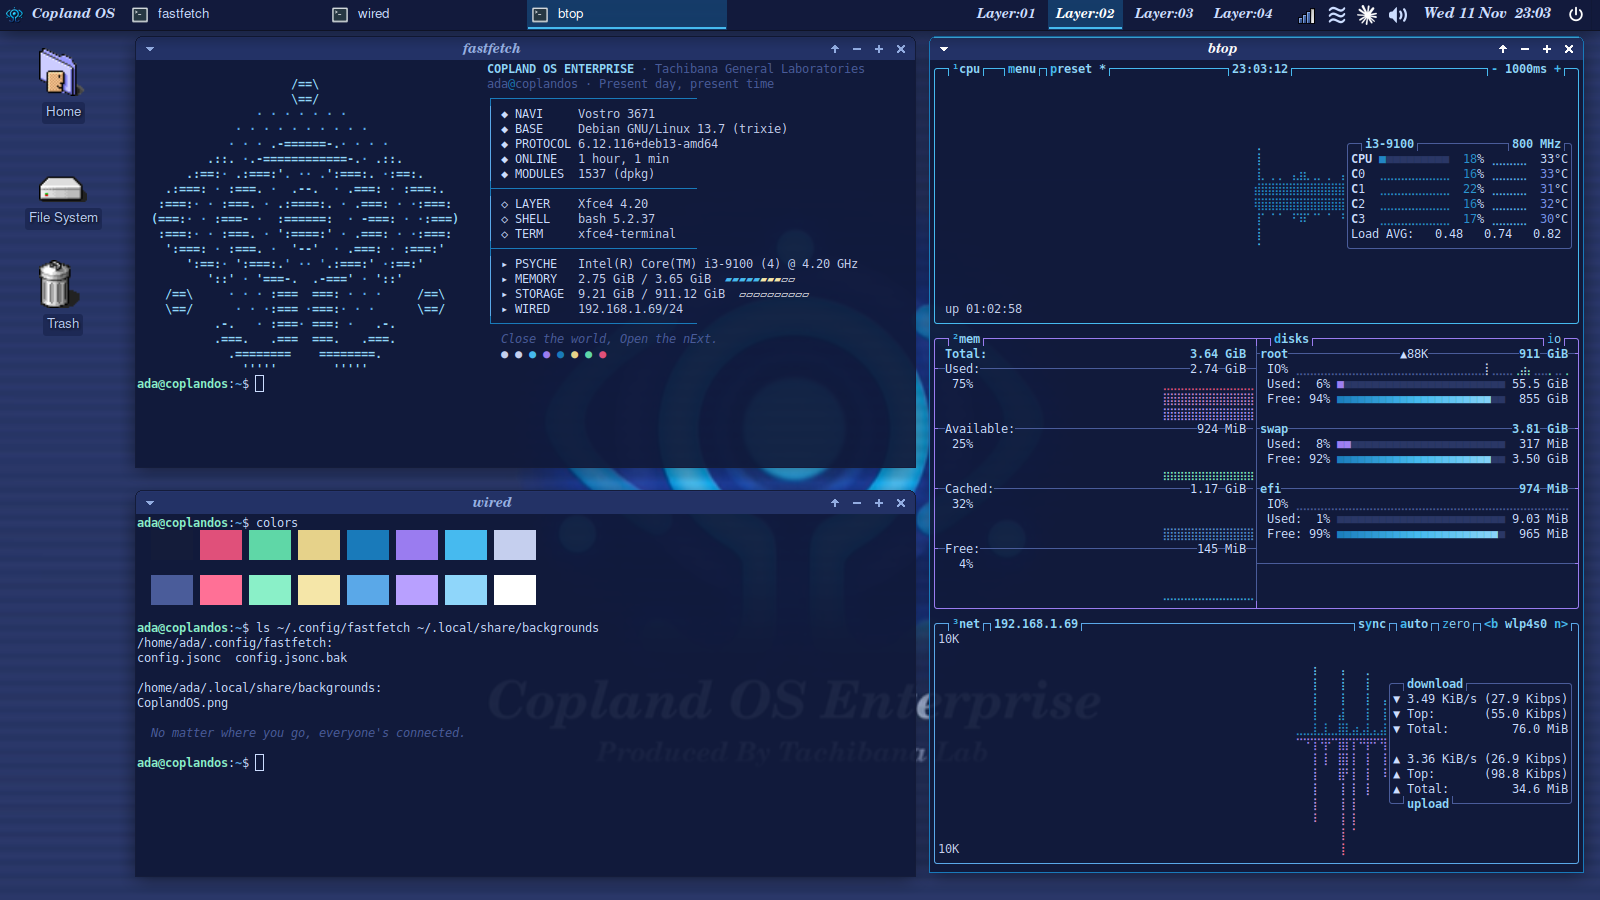
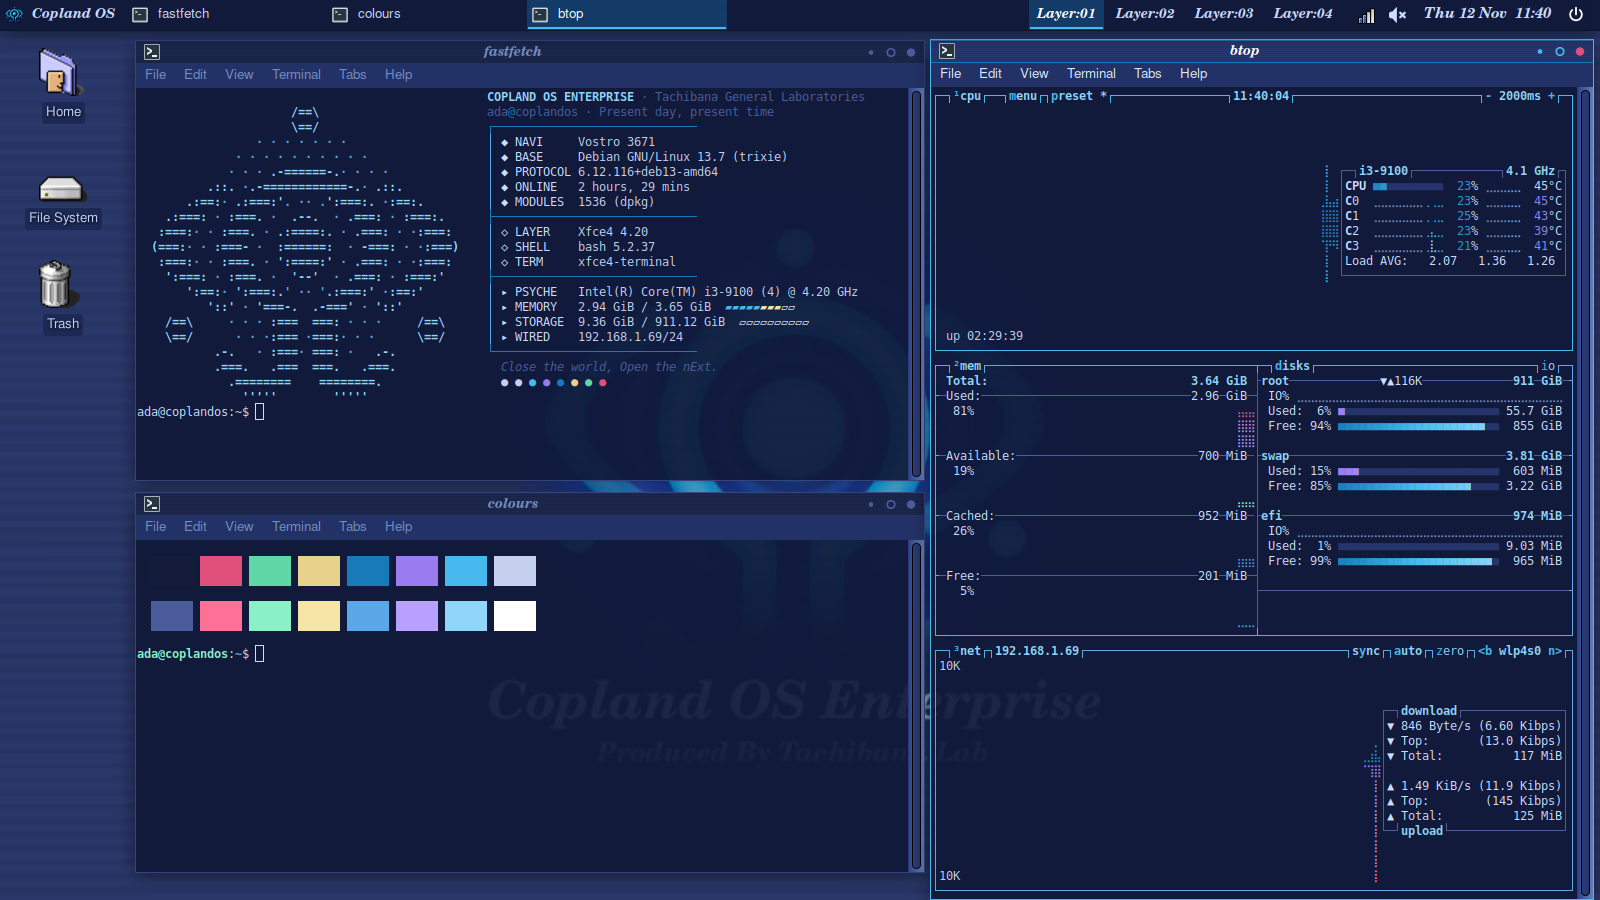
New screenshots with the new window frame
- docs/screenshot-desktop.png and docs/screenshot-apps.png retaken in a fresh nested Copland session installed by the repo's installer: the new frame, the current bar, nothing personal (btop without its process list)
- the website describes the new window frame next to the at-work picture

Changed region(s): [[0.0625, 0.0, 1.0, 1.0], [0.0312, 0.3422, 0.0625, 0.3733], [0.0312, 0.2178, 0.0625, 0.2489]]

diff --git a/site/index.html b/site/index.html
@@ -264,8 +264,10 @@
     </figure>
     <ul class="parts">
       <li><strong>Open windows</strong> of the current layer only, in the bar next to the menu.</li>
-      <li><strong>Window titles</strong>, centred at the top of each window, in C059 Bold Italic. Everything you read inside windows is in
-        Nimbus Sans.</li>
+      <li><strong>Window frames</strong> with square corners and a scanlined title bar; the focused window has a
+        cyan edge. The app's icon sits at the top left, the title is centred in C059 Bold Italic, and the buttons
+        are the dots of the eye logo: the pink dot closes, the cyan ring maximizes, the small dot minimizes.
+        Everything you read inside windows is in Nimbus Sans.</li>
       <li><strong>The system summary</strong> every new terminal opens with (top left), next to the eye drawn in text. Its labels
         use the show's words: <strong>NAVI</strong> is your computer (the show's name for a personal computer),
         <strong>PROTOCOL</strong> the Linux kernel (Protocol 7 is the show's network protocol),
